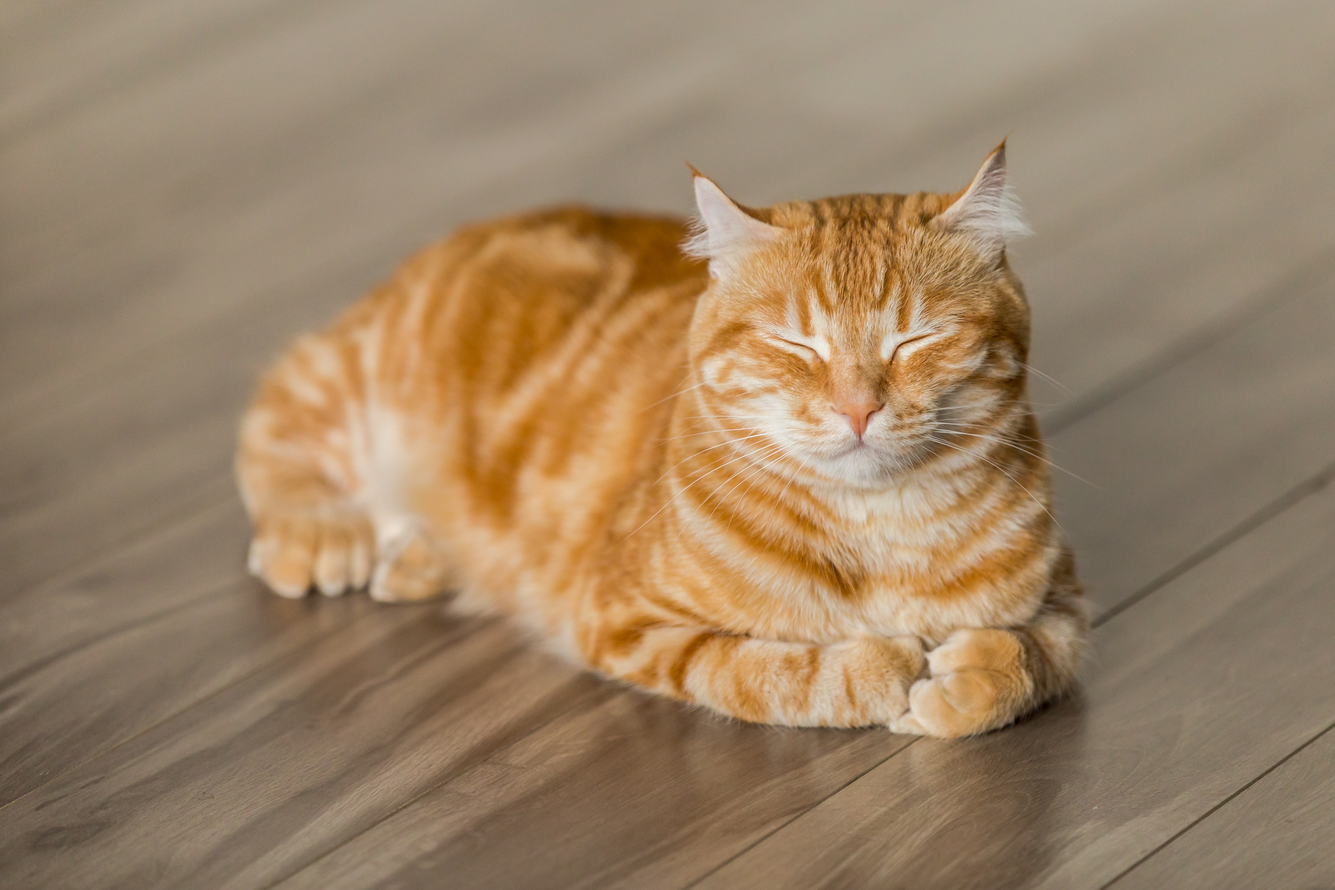
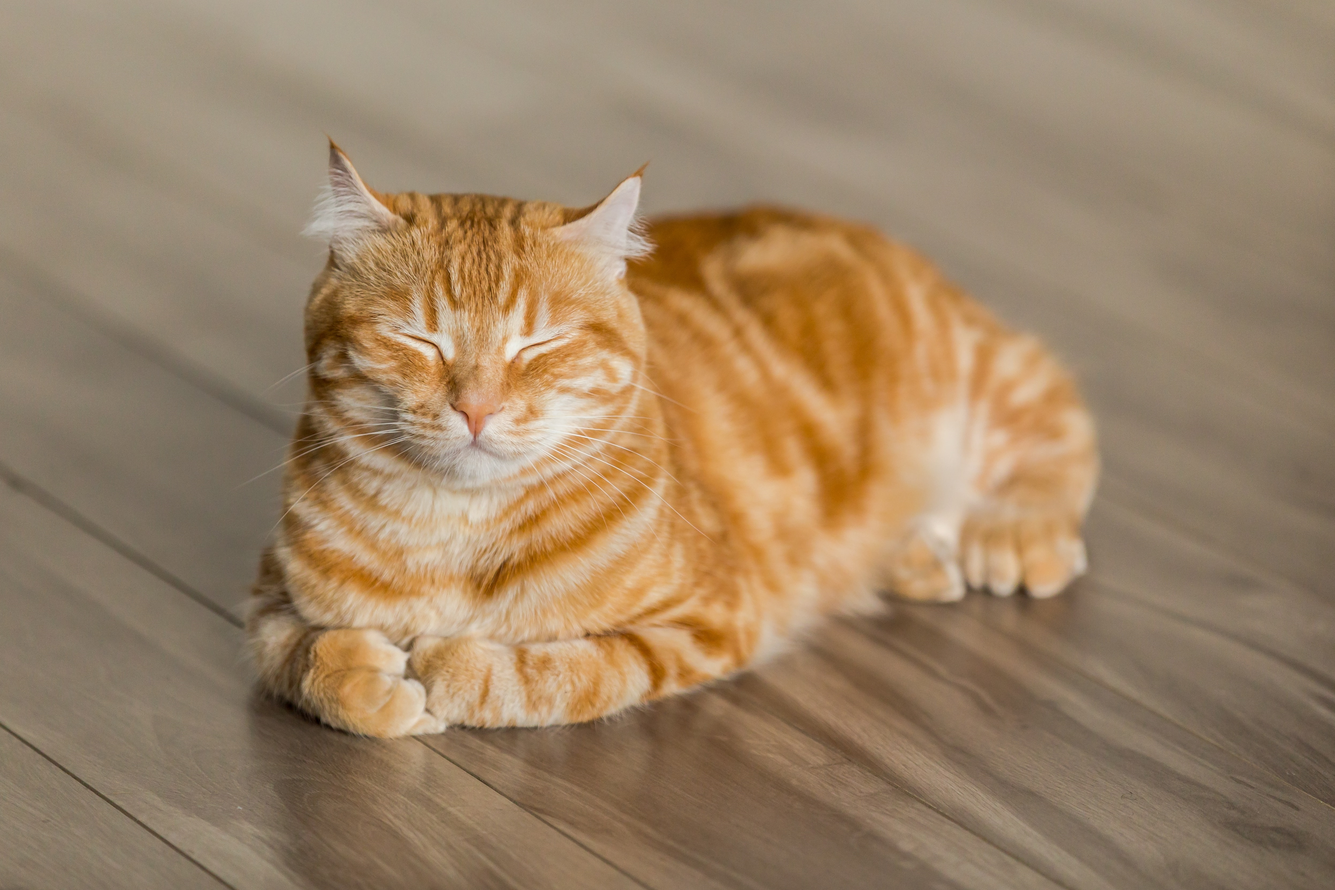
add media queries

diff --git a/assets/css/style.css b/assets/css/style.css
@@ -4,16 +4,13 @@ body {
     background-color:bisque;
   }
 /* headings and logo */
-
 #logo{ font-family: 'fredoka one', 'Arial Narrow', Arial, sans-serif;
     float: left;
-    font-size: 550%;
+    font-size: 545%;
     margin-left: 35px;
     margin-top: auto;
     letter-spacing: 0px;
-    color: #534e45;
-    
-    }
+    color: #534e45;}
     
     /* navigation */
 #menu {font-size: 150%;
@@ -31,14 +28,14 @@ h2{font-family:'fredoka one', 'Arial Narrow', Arial, sans-serif;color: #534e45 ;
 #menu a:hover {border-bottom:1px solid #3a3a3a;}
     .active{border-bottom: 1px solid#3a3a3a;}
 
-    /* hero image */
+    /* hero images */
 #hero-outer {height: 60vh;
     width: 100%;
     overflow: hidden;
     position: relative;}    
 #hero-image {height: 100%;
     width: 100%;
-    background:url('../images/index-hero.jpg')
+    background:url('../images/sleeping-cat-hero.jpg')
     no-repeat center center }
 #hero-image-gallery {height: 100%;
       width: 100%;
@@ -48,7 +45,8 @@ h2{font-family:'fredoka one', 'Arial Narrow', Arial, sans-serif;color: #534e45 ;
   width: 100%;
   background:url('../images/beans.jpg')
   no-repeat center center }  
-#hero-image-book-in {height: 100%;
+#hero-image-book-in {
+      height: 100%;
       width: 100%;
       background:url('../images/book-hero.jpg')
       no-repeat center center }  
@@ -69,9 +67,7 @@ padding-right: 100px;
 padding-bottom: 50px;
 padding-top: 50px;}
 
-
 /*Gallery photos*/
-
 #photos { clear:both;
   line-height: 0;
   column-count: 4;
@@ -80,7 +76,6 @@ padding-top: 50px;}
 #photos >img {width: 100%;}
 
 /*cafe menu*/
-
 .text-center {
   text-align: center;
 }
@@ -109,7 +104,6 @@ padding-top: 50px;}
   color: white;
   border: 6px solid rgb(174, 174, 174);
   border-radius: 25px;
- 
 }
 
 .menu-left {
@@ -139,7 +133,7 @@ padding-top: 50px;}
   font-family: 'Noto', sans-serif;
 }
 
-/* social links*/
+/* social links footer*/
 .social-networks {text-align: center;}
     .social-networks > li {display: inline;}
     .social-networks i {font-size: 360%;   
@@ -156,6 +150,7 @@ padding-top: 50px;}
 footer{background-image:url('../images/beans.jpg');}  
 
 /*booking form*/
+/*Code from https://codepen.io/ and modified*/
 form {
     width: 500px;
     margin: 0 auto;
@@ -175,7 +170,7 @@ form {
   
   label {
     display: block;
-    font-family: 'Nanum Gothic';
+    font-family:'fredoka', 'Arial Narrow', Arial, sans-serif;
     padding-bottom: 10px;
     font-size: 1.25em;
   }
@@ -185,7 +180,7 @@ form {
     border: 2px solid #777;
     box-sizing: border-box;
     font-size: 1.25em;
-    font-family: 'Nanum Gothic';
+    font-family: 'fredoka', 'Arial Narrow', Arial, sans-serif;
     width: 100%;
     padding: 10px;
   }
@@ -209,7 +204,7 @@ form {
     border: none;
     color: white;
     font-size: 1.25em;
-    font-family: 'Nanum Gothic';
+    font-family: 'fredoka', 'Arial Narrow', Arial, sans-serif;
     border-radius: 4px;
     cursor: pointer;
   }
@@ -217,3 +212,47 @@ form {
   button:hover {
     border: 2px solid black;
   }
+   /* media queries*/
+    /* for larger to med size screens 1200px wide and down */
+    @media screen and (max-width:1200px) {
+    .body{padding: 20px; margin: 0;}
+    #menu{padding: 20px; margin: 0;
+  }
+    
+    hr {display: none;}
+  }
+  /* for medium screen sizes from 950px wide and down */
+@media screen and (max-width: 950px) {
+
+  #menu {
+      clear: left;
+      float: left;
+      margin-left: 30px; 
+      margin-bottom: 20px; 
+      line-height: 25px;}
+  #about-us {
+      width: 90; 
+      height: 1000px; 
+      margin: 0 auto;}
+  
+  #photos {
+      column-count: 3;}
+  }
+  footer{float:bottom;}
+  
+  /* small screen size */
+  @media screen and (max-width:800px) {
+      #photos {
+          column-count: 2;}
+     
+      p{text-align:centre;}
+       
+
+      }
+  
+      /* flex*/
+     /* #menu{
+        justify-content:center;}
+      #footer{
+        justify-content:center;
+      }*/

diff --git a/index.html b/index.html
@@ -33,9 +33,9 @@
             <div class="what-we-do">
                 <h2>About Us   <i class="fa-solid fa-cat"></i></h2>
                 <hr>
-            <p>We are a small charity cat cafe based in Dublin, serving coffee and baked goodies. We also host hangout sessions with the current kitty residences, you can book in to make a reservation. All profits go towards helping strays get back to good health and find forever homes. 
+            <p>We are a small cat cafe based in Dublin, serving coffee and baked goodies. We also host hangout sessions with the current kitty residences, you can book in to make a reservation. All profits go towards helping strays get back to good health and find forever homes. 
                 <br>
-                <p>We look forward to seeing you soon</p>
+                <p>We look forward to seeing you soon.</p>
                 <div>
                     
                     <iframe id="map" src=
@@ -75,26 +75,27 @@
         <div class="house-rules">
             <h2>House rules   <i class="fa-solid fa-scale-balanced"></i></h2>
             <hr>
-        <p>We respectfully request that visitors leave their dogs at home.
+        <p>- We respectfully request that visitors leave their dogs at home.
             <br>
-        Catnip is strictly prohibited within the property, its not that kind of cafe.
+        - Catnip is strictly prohibited within the property, its not that kind of cafe.
             <br>
-        Please do not feed the cat inhabitants no matter how hard they may persuade you, they are well fed.
+        - Please do not feed the cat inhabitants no matter how hard they may persuade you, they are well fed.
             <br>
-        No flash photography.
+        - No flash photography.
         </p>
     </div><hr>
         </div>
         <div id=>
-            <div class="menu">
+            <div class="cafe-menu">
                 <h2>Menu   <i class="fa-solid fa-mug-hot"></i></h2>
                 <hr>
-                <p><a href="menu.html">Check out our menu</a> </p>
+                <p> Here at Catmosphere we offer a wide selection of hot drinks and baked goodies to raise funds to support our resident cats.<br><a href="menu.html">Check out our menu</a> </p>
             </div><hr>
             <div class="booking">
                 <h2>Book In    <i class="fa-solid fa-book"></i></h2>
                 <hr>
-                <p><a href="book-in.html">Make a booking</a></p>
+                <p>We host hangout sessions with the resident cats so that customers can meet them,show affection and maybe even adopt them.<br>We strongly advise making a booking with us to avoid dissapointment and to give the cats some time to groom themselves before visitors arrive.
+                <br><a href="book-in.html">Make a booking</a></p>
             </div><hr>
         </div>
 </header>

diff --git a/book-in.html b/book-in.html
@@ -33,7 +33,7 @@
     <form action="reservation.php" method="post">
         <div class="elem-group">
           <label for="name">Your Name</label>
-          <input type="text" id="name" name="visitor_name" placeholder="John Doe" pattern=[A-Z\sa-z]{3,20} required>
+          <input type="text" id="name" name="visitor_name" placeholder="Charlie Day" pattern=[A-Z\sa-z]{3,20} required>
         </div>
         <div class="elem-group">
           <label for="email">Your E-mail</label>
